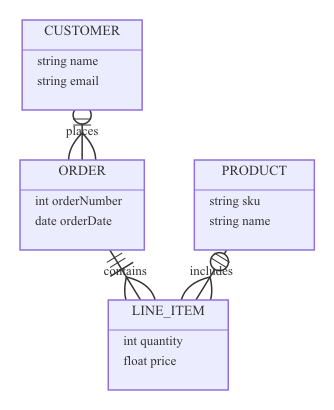
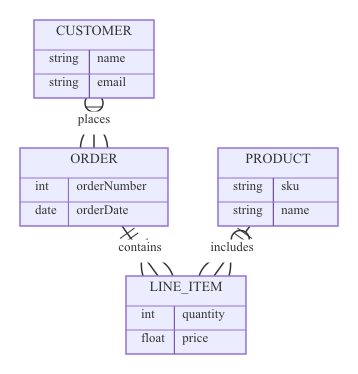
er: two-column attribute grid, smooth edges, chip-style labels
Three regressions vs mermaid-cli on examples/er/{simple,blog}.mmd:

1. Attributes rendered as a flat list of `type name` text rows. mmdc
   draws each attribute as a two-column grid (type | name) with a
   horizontal divider between rows and a vertical divider between
   columns. Now matches: attrColumnWidths sizes the columns,
   renderEntities draws both dividers and the per-cell text.
2. 3+-waypoint edges were sharp polylines. Switched to
   svgutil.CatmullRomPath (the helper extracted in PR #75), so ER edges
   share the same smooth curve flowchart and class already use.
3. Edge labels had no chip backdrop, so "contains"/"includes" visibly
   merged with cardinality markers. Added the same theme-background
   chip introduced for flowchart in #73 and class in #74.

Drops the now-unused polylineD and the strings import. Both example
SVGs and PNGs regenerated.

Changed region(s): [[0.0299, 0.0294, 0.9581, 0.9706]]

diff --git a/pkg/renderer/er/renderer.go b/pkg/renderer/er/renderer.go
@@ -5,7 +5,6 @@ import (
 	"fmt"
 	"math"
 	"sort"
-	"strings"
 
 	"github.com/julianshen/mmgo/pkg/diagram"
 	"github.com/julianshen/mmgo/pkg/layout"
@@ -20,8 +19,11 @@ const (
 	entityPadX      = 15.0
 	entityPadY      = 10.0
 	headerH         = 30.0
-	attrRowH        = 20.0
+	attrRowH        = 24.0
 	minEntityW      = 120.0
+	// attrCellGap separates the type column from the name column inside
+	// each attribute row. Matches the visual spacing mmdc uses.
+	attrCellGap = 16.0
 )
 
 type Options struct {
@@ -68,8 +70,8 @@ func Render(d *diagram.ERDiagram, opts *Options) ([]byte, error) {
 	if markers := buildERMarkers(d); len(markers) > 0 {
 		children = append(children, &defs{Markers: markers})
 	}
-	children = append(children, renderEdges(d, l, pad, fontSize, th)...)
-	children = append(children, renderEntities(d, l, pad, fontSize, th)...)
+	children = append(children, renderEdges(d, l, pad, fontSize, th, ruler)...)
+	children = append(children, renderEntities(d, l, pad, fontSize, th, ruler)...)
 
 	svg := svgDoc{
 		XMLNS:    "http://www.w3.org/2000/svg",
@@ -90,15 +92,6 @@ func sanitize(v float64) float64 {
 	return v
 }
 
-func polylineD(pts []layout.Point) string {
-	var sb strings.Builder
-	fmt.Fprintf(&sb, "M%.2f,%.2f", pts[0].X, pts[0].Y)
-	for _, p := range pts[1:] {
-		fmt.Fprintf(&sb, " L%.2f,%.2f", p.X, p.Y)
-	}
-	return sb.String()
-}
-
 // See erStartGeoms in markers.go for why start markers are inlined
 // rather than referenced via SVG marker-start.
 func startMarkerGroup(c diagram.ERCardinality, start, next layout.Point) *group {
@@ -114,30 +107,46 @@ func entitySize(e diagram.EREntity, ruler *textmeasure.Ruler, fontSize float64) 
 	w = tw + 2*entityPadX
 	h = headerH
 	if len(e.Attributes) > 0 {
-		h += entityPadY + float64(len(e.Attributes))*attrRowH
-		for _, a := range e.Attributes {
-			aw, _ := ruler.Measure(attrText(a), fontSize-1)
-			if aw+2*entityPadX > w {
-				w = aw + 2*entityPadX
-			}
+		typeColW, nameColW := attrColumnWidths(e.Attributes, ruler, fontSize-1)
+		rowW := 2*entityPadX + typeColW + attrCellGap + nameColW
+		if rowW > w {
+			w = rowW
 		}
+		h += float64(len(e.Attributes)) * attrRowH
 	}
 	if w < minEntityW {
 		w = minEntityW
 	}
-	h += entityPadY
 	return w, h
 }
 
-func attrText(a diagram.ERAttribute) string {
-	s := a.Type + " " + a.Name
-	if a.Key != diagram.ERKeyNone {
-		s += " " + a.Key.String()
+// attrColumnWidths returns the widest type-cell and the widest name-cell
+// across all attributes. The Key suffix (PK/FK/UK) is appended to the
+// name cell, so keys influence nameColW only.
+func attrColumnWidths(attrs []diagram.ERAttribute, ruler *textmeasure.Ruler, fontSize float64) (typeColW, nameColW float64) {
+	for _, a := range attrs {
+		tw, _ := ruler.Measure(a.Type, fontSize)
+		if tw > typeColW {
+			typeColW = tw
+		}
+		nw, _ := ruler.Measure(nameCellText(a), fontSize)
+		if nw > nameColW {
+			nameColW = nw
+		}
 	}
-	return s
+	return typeColW, nameColW
 }
 
-func renderEntities(d *diagram.ERDiagram, l *layout.Result, pad, fontSize float64, th Theme) []any {
+// nameCellText is what shows in the name column. The key marker
+// (PK/FK/UK) trails the name, mirroring mmdc's row layout.
+func nameCellText(a diagram.ERAttribute) string {
+	if a.Key != diagram.ERKeyNone {
+		return a.Name + " " + a.Key.String()
+	}
+	return a.Name
+}
+
+func renderEntities(d *diagram.ERDiagram, l *layout.Result, pad, fontSize float64, th Theme, ruler *textmeasure.Ruler) []any {
 	var elems []any
 	for _, e := range d.Entities {
 		nl, ok := l.Nodes[e.Name]
@@ -163,28 +172,59 @@ func renderEntities(d *diagram.ERDiagram, l *layout.Result, pad, fontSize float6
 			Content: e.Name,
 		})
 
-		if len(e.Attributes) > 0 {
-			sepY := y + headerH
-			elems = append(elems, &line{
-				X1: svgFloat(x), Y1: svgFloat(sepY),
-				X2: svgFloat(x + w), Y2: svgFloat(sepY),
-				Style: fmt.Sprintf("stroke:%s;stroke-width:1", th.EntityStroke),
-			})
-			for i, a := range e.Attributes {
-				ay := sepY + entityPadY/2 + float64(i)*attrRowH + attrRowH/2
-				elems = append(elems, &text{
-					X: svgFloat(x + entityPadX), Y: svgFloat(ay),
-					Anchor: "start", Dominant: "central",
-					Style:   fmt.Sprintf("fill:%s;font-size:%.0fpx", th.EntityText, fontSize-1),
-					Content: attrText(a),
+		if len(e.Attributes) == 0 {
+			continue
+		}
+
+		dividerStyle := fmt.Sprintf("stroke:%s;stroke-width:1", th.EntityStroke)
+		typeColW, _ := attrColumnWidths(e.Attributes, ruler, fontSize-1)
+		colDividerX := x + entityPadX + typeColW + attrCellGap/2
+
+		headerSepY := y + headerH
+		elems = append(elems, &line{
+			X1: svgFloat(x), Y1: svgFloat(headerSepY),
+			X2: svgFloat(x + w), Y2: svgFloat(headerSepY),
+			Style: dividerStyle,
+		})
+		// Vertical divider between type and name columns spans the
+		// whole attribute section.
+		attrSectionH := float64(len(e.Attributes)) * attrRowH
+		elems = append(elems, &line{
+			X1: svgFloat(colDividerX), Y1: svgFloat(headerSepY),
+			X2: svgFloat(colDividerX), Y2: svgFloat(headerSepY + attrSectionH),
+			Style: dividerStyle,
+		})
+
+		nameCellX := x + entityPadX + typeColW + attrCellGap
+		attrTextStyle := fmt.Sprintf("fill:%s;font-size:%.0fpx", th.EntityText, fontSize-1)
+		for i, a := range e.Attributes {
+			rowTop := headerSepY + float64(i)*attrRowH
+			rowMid := rowTop + attrRowH/2
+			if i > 0 {
+				elems = append(elems, &line{
+					X1: svgFloat(x), Y1: svgFloat(rowTop),
+					X2: svgFloat(x + w), Y2: svgFloat(rowTop),
+					Style: dividerStyle,
 				})
 			}
+			elems = append(elems, &text{
+				X: svgFloat(x + entityPadX), Y: svgFloat(rowMid),
+				Anchor: "start", Dominant: "central",
+				Style:   attrTextStyle,
+				Content: a.Type,
+			})
+			elems = append(elems, &text{
+				X: svgFloat(nameCellX), Y: svgFloat(rowMid),
+				Anchor: "start", Dominant: "central",
+				Style:   attrTextStyle,
+				Content: nameCellText(a),
+			})
 		}
 	}
 	return elems
 }
 
-func renderEdges(d *diagram.ERDiagram, l *layout.Result, pad, fontSize float64, th Theme) []any {
+func renderEdges(d *diagram.ERDiagram, l *layout.Result, pad, fontSize float64, th Theme, ruler *textmeasure.Ruler) []any {
 	edgeKeys := make([]graph.EdgeID, 0, len(l.Edges))
 	for eid := range l.Edges {
 		edgeKeys = append(edgeKeys, eid)
@@ -246,7 +286,7 @@ func renderEdges(d *diagram.ERDiagram, l *layout.Result, pad, fontSize float64, 
 			})
 		} else {
 			elems = append(elems, &path{
-				D:         polylineD(pts),
+				D:         svgutil.CatmullRomPath(pts, svgutil.CatmullRomTension),
 				Style:     style,
 				MarkerEnd: endRef,
 			})
@@ -258,10 +298,24 @@ func renderEdges(d *diagram.ERDiagram, l *layout.Result, pad, fontSize float64, 
 		if rel.Label != "" {
 			lx := el.LabelPos.X + pad
 			ly := el.LabelPos.Y + pad
+			labelFont := fontSize - 1
+			labelW, labelH := ruler.Measure(rel.Label, labelFont)
+			const labelPad = 4.0
+			// Chip backdrop tinted with the theme background — same
+			// pattern as flowchart (PR #73) and class (PR #74). Without
+			// it, ER labels overlap cardinality markers and crossing
+			// lines (most visible in examples/er/blog.svg).
+			elems = append(elems, &rect{
+				X: svgFloat(lx - labelW/2 - labelPad), Y: svgFloat(ly - labelH/2 - labelPad),
+				Width:  svgFloat(labelW + 2*labelPad),
+				Height: svgFloat(labelH + 2*labelPad),
+				RX:     3, RY: 3,
+				Style: fmt.Sprintf("fill:%s;stroke:none", th.Background),
+			})
 			elems = append(elems, &text{
 				X: svgFloat(lx), Y: svgFloat(ly),
 				Anchor: "middle", Dominant: "central",
-				Style:   fmt.Sprintf("fill:%s;font-size:%.0fpx", th.EdgeText, fontSize-1),
+				Style:   fmt.Sprintf("fill:%s;font-size:%.0fpx", th.EdgeText, labelFont),
 				Content: rel.Label,
 			})
 		}

diff --git a/pkg/renderer/er/renderer_test.go b/pkg/renderer/er/renderer_test.go
@@ -45,10 +45,42 @@ func TestRenderEntityWithAttributes(t *testing.T) {
 	if !strings.Contains(raw, ">CUSTOMER<") {
 		t.Error("entity name missing")
 	}
-	if !strings.Contains(raw, "int id PK") {
-		t.Error("attribute with key missing")
+	// Type and name now live in separate <text> cells; the key marker
+	// trails the name in the same cell. Assert each piece independently.
+	for _, want := range []string{">int<", ">id PK<", ">string<", ">name<"} {
+		if !strings.Contains(raw, want) {
+			t.Errorf("missing %q in output", want)
+		}
 	}
 	assertValidSVG(t, out)
+}
+
+// Two-column attribute layout invariants: a vertical column divider
+// between the type and name cells, plus a horizontal divider between
+// each pair of attribute rows (in addition to the header divider).
+func TestRenderAttributeGrid(t *testing.T) {
+	d := &diagram.ERDiagram{
+		Entities: []diagram.EREntity{{
+			Name: "T",
+			Attributes: []diagram.ERAttribute{
+				{Type: "int", Name: "a"},
+				{Type: "string", Name: "b"},
+				{Type: "date", Name: "c"},
+			},
+		}},
+	}
+	out, err := Render(d, nil)
+	if err != nil {
+		t.Fatalf("Render: %v", err)
+	}
+	raw := string(out)
+	// 3 attributes ⇒ header divider + 2 inter-row dividers + 1 column
+	// divider = at least 4 stroke-bearing <line> elements with the
+	// theme stroke color in the entity section.
+	const wantStrokeStyle = `stroke:#9370DB;stroke-width:1`
+	if got := strings.Count(raw, wantStrokeStyle); got < 4 {
+		t.Errorf("expected ≥4 divider lines with %q, got %d", wantStrokeStyle, got)
+	}
 }
 
 func TestRenderRelationship(t *testing.T) {
@@ -68,6 +100,11 @@ func TestRenderRelationship(t *testing.T) {
 	raw := string(out)
 	if !strings.Contains(raw, ">has<") {
 		t.Error("relationship label missing")
+	}
+	// Chip backdrop behind the label, mirroring flowchart/class.
+	bg := DefaultTheme().Background
+	if !strings.Contains(raw, "fill:"+bg+";stroke:none") {
+		t.Errorf("expected edge-label chip backdrop with fill:%s", bg)
 	}
 	assertValidSVG(t, out)
 }
